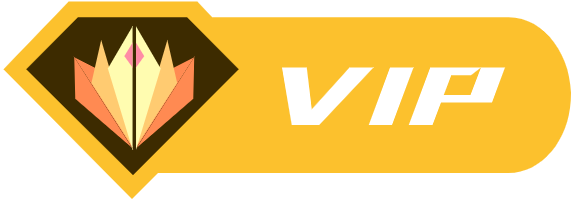
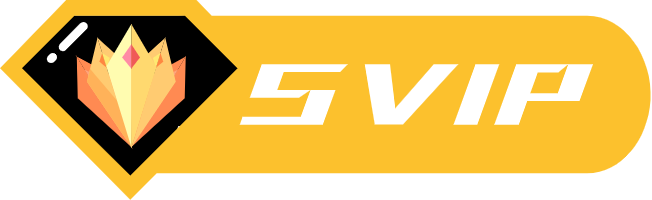
新增：SVIP徽章

diff --git a/plugin/admin/app/view/account/index.html b/plugin/admin/app/view/account/index.html
@@ -48,8 +48,11 @@
                                 <label class="layui-form-label">SVIP会员</label>
                                 <div class="layui-input-block">
                                     <?php if ($is_vip) { ?>
-                                    <img src="/statics/img/svip.png" width="100">
-                                    <?=$is_ever_level ? '' : '有效期至' . $overdue_time ?>
+                                    <?php if ($is_ever_level) { ?>
+                                    <img src="/statics/img/svip.png" width="110">
+                                    <?php } else { ?>
+                                    <img src="/statics/img/vip.png" width="100">有效期至<?=$overdue_time?>
+                                    <?php } ?>
                                     <?php } else { ?>
                                     <a class="layui-btn layui-btn-primary layui-btn-sm" href="https://iyuu.cn/app/user/member" target="_blank">成为SVIP会员</a>
                                     <?php } ?>
